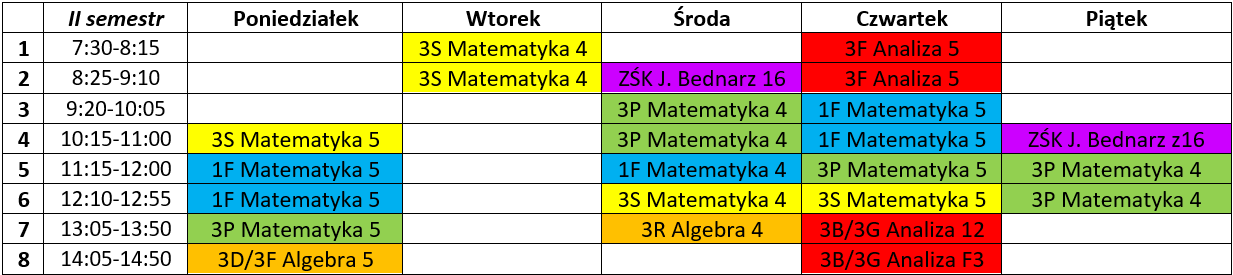
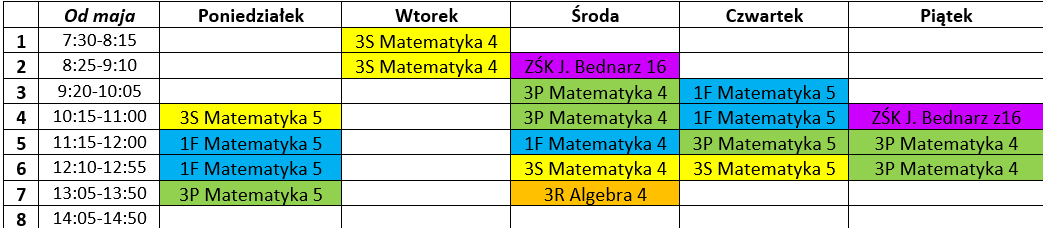
cytat

diff --git a/index.html b/index.html
@@ -77,15 +77,14 @@
 
         <h4 class="mb-3">Cytat tygodnia</h4>
       
-        <p><i>"Nie martw się porażkami, martw się szansami, które tracisz, gdy nawet nie próbujesz."</i></p>
+        <p><i>"Problemem nie jest problem, problemem jest Twoje podejście do problemu."</i></p>
       
  <p><a href='media/kardynalne.pdf'><h4 class="mb-4">Kardynalne błędy merytoryczne - lista</h4></a></p>
         <h4 class="mb-4">Najnowsze informacje:</h4>
 
  <h5 class="mb-4">
-<span style="color: red">29.04 (Piątek) 3P Sprawdzin II termin (Czworokąty) </span><br>
-<span style="color: red">27.04 (Środa) 1F Sprawdzin - Wartość bezwzględna </span><br>
 <span style="color: red">27.04 (Środa) 3P Kartkówka - Granice funkcji </span><br>
+<span style="color: red">18.05 (Środa) 3S Sprawdzin - Analiza matematyczna </span><br>
 </h5>
         
  <p><a href='media/Delta.pdf'><h5 class="mb-4">Najnowsza DELTA - miesięcznik matematyczno-fizyczno-astronomiczno-informatyczny.</h5></a></br></p>

diff --git a/zadania.html b/zadania.html
@@ -74,7 +74,7 @@
           </div>
         </nav>
 
-        <h4 class="mb-4">Zadania dodatkowe na KWIECIEŃ</h4>
+        <h4 class="mb-4">Zadania dodatkowe na MAJ</h4>
 	<h6 class="mb-4">Rozwiązania zadań proszę przynieść osobiście w formie papierowej. Nie trzeba zrobić wszystkich zadań - każde będzie sukcesem.</h6>
        <img src="images/zada.png" alt="Błąd">
  <h5 class = "mb-4">
